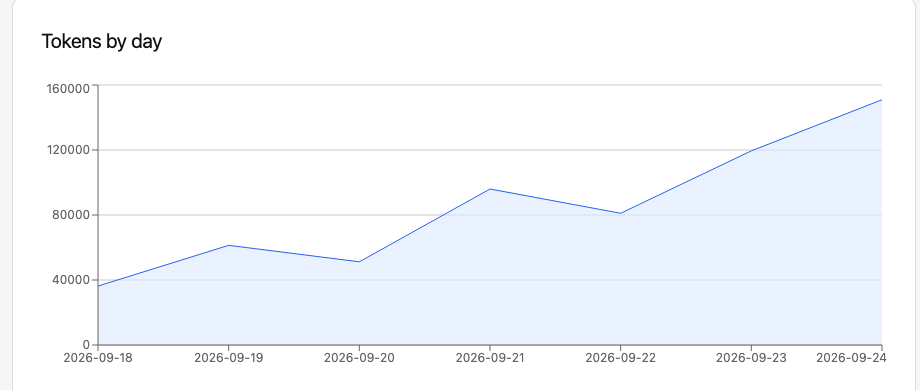
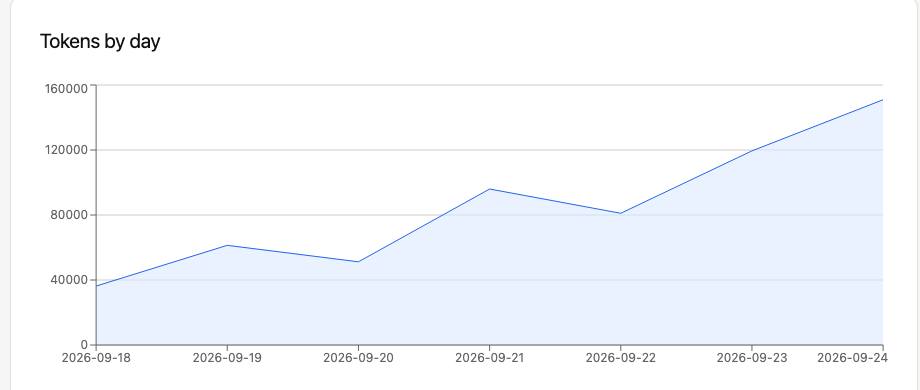
docs: expand synthetic dashboard gallery

diff --git a/docs/guides/demo.md b/docs/guides/demo.md
@@ -12,19 +12,97 @@ The demo contains three synthetic users, three mock provider connections, three 
 
 ## Screenshots
 
-Captured from the embedded dashboard on September 24, 2026, using only disposable demo data.
+Captured from the embedded dashboard using only disposable demo data. The users, providers, keys, requests, and costs in these images are synthetic.
 
-### Overview
+### Analytics
+
+#### Overview
 
 ![Overview with populated request and spend totals](../images/demo-overview.png)
 
-### Usage
+The home screen summarizes the fixture's request and spend totals.
+
+#### Usage summary
+
+![Synthetic request, token, cache, and cost summary](../images/demo-usage-summary.png)
+
+Summary cards show request and token totals alongside cache usage and example cost provenance.
+
+#### Seven-day chart
 
 ![Seven-day token chart](../images/demo-usage.png)
 
-### Model routing
+The chart shows daily token usage across the seven-day fixture.
+
+#### Effective prices
+
+![Versioned synthetic model prices](../images/demo-usage-prices.png)
+
+Versioned example prices explain the cost calculation; they are not provider quotes.
+
+#### Request history
+
+![Request history for synthetic gateway traffic](../images/demo-requests.png)
+
+The first page shows traffic generated through the real gateway paths and local mock provider.
+
+#### Request detail
+
+![Attempt, token, and cost provenance for a synthetic request](../images/demo-request-detail.png)
+
+The detail view traces an example request through its attempts, token accounting, and cost record.
+
+### Gateway configuration
+
+#### Providers
+
+![Mock provider connections](../images/demo-providers.png)
+
+Three mock provider connections let the demo run without external credentials.
+
+#### Models
 
 ![Model routing with a mock provider target](../images/demo-models.png)
+
+Published model names route to the demo's mock provider targets.
+
+#### API keys
+
+![API key creation with explicit operation scopes](../images/demo-keys.png)
+
+The creation form shows explicit operation scopes without exposing secret values.
+
+#### Key management
+
+![Synthetic API key and its lifecycle actions](../images/demo-keys-list.png)
+
+An existing demo key shows its grant counts and lifecycle actions.
+
+### Administration
+
+#### Users
+
+![Synthetic dashboard users](../images/demo-users.png)
+
+The users view contains three disposable accounts.
+
+#### Audit
+
+![Audit events in the demo dashboard](../images/demo-audit.png)
+
+Audit records make configuration changes traceable.
+
+#### Settings
+
+![Instance settings in the demo dashboard](../images/demo-settings.png)
+
+Instance settings collect local operating controls.
+
+#### Status
+
+![Runtime status in the demo dashboard](../images/demo-status.png)
+
+The status view shows instance health and diagnostics.
 
 ## Isolation and cleanup
 

diff --git a/docs/plan/README.md b/docs/plan/README.md
@@ -135,6 +135,10 @@ Checked source revision `a4ab1a2` with Go 1.27.1 on macOS arm64 and the producti
 
 The README was reduced to a Docker quick start, example request, feature summary, SDK base URLs, source build, and documentation links. The disposable demo was rebuilt and signed into locally; its overview, usage chart, and model-routing views were captured as real PNGs. `pnpm --dir web typecheck`, all 78 frontend/SDK tests, `go test ./scripts/demo -count=1`, `docker compose config --quiet`, Markdown link checks, and `git diff --check` passed. Deployment instructions were corrected for service-account creation and for passing the backup key to offline backup/restore. No GitHub workflow or paid provider was used.
 
+### Expanded demo gallery — 2026-09-24
+
+The disposable demo was rebuilt and 14 real browser screenshots now cover overview, usage totals and daily tokens, effective prices, request history and detail, providers, model routing, key creation and management, users, audit, settings, and status. The images use synthetic data only. Capturing populated requests exposed a `null` rejected-candidates array that crashed the page; new attempts now store `[]`, historical rows serialize as arrays, and a regression test covers both paths. Minor label and contrast fixes were checked in the rebuilt dashboard. The local quick verification gate passed, including Go tests, lint/static analysis, embedded and Linux builds, TypeScript, and all 78 frontend/SDK tests. Docker Compose configuration, screenshot file/link checks, and diff whitespace checks passed. Independent review found no remaining issue. No GitHub workflow or paid provider was used.
+
 Implement one bounded work item at a time in this repository. Update its status and evidence after checks pass. Review financial/security/data-loss boundaries before declaring the containing phase complete. Do not generate all future directories, tables, interfaces, or placeholder endpoints upfront.
 
 The v0.1 implementation phases are complete, with the documented Phase 8–9 compatibility subset implemented. Before publication, select the final candidate, verify its Linux artifacts and sustained resource behavior, and configure signing/reporting/publication access. The [release checklist](../project/release-checklist.md) tracks those gates; [human tasks](../project/human-tasks.md) track external prerequisites. Additional vendor API families and remote storage remain separate implementation work in the [API parity inventory](../project/api-parity-inventory.md) and decisions.

diff --git a/docs/project/release-checklist.md b/docs/project/release-checklist.md
@@ -12,7 +12,7 @@
 - [x] An encrypted backup restores into a clean Docker data volume with the matching key; the restored instance passes `/readyz` and sign-in.
 - [x] Automated suites separately cover pre-migration snapshots, encrypted restore, and failed self-update rollback.
 - [x] `./scripts/update-e2e.sh` checks real Linux CLI dry-run/apply, the production readiness probe with a public domain configured, and rollback after both stores and the master key change. Verified on Linux arm64 with disposable v1.0.0/v1.1.0 binaries and a deliberately broken signed v1.2.0 fixture; repeat on each final release architecture.
-- [x] A [disposable demo](../guides/demo.md) populates users, models, keys, priced usage, and seven days of history; reviewed overview, usage, and model-routing screenshots are included. It cannot seed an existing data directory.
+- [x] A [disposable demo](../guides/demo.md) populates users, models, keys, priced usage, and seven days of history; 14 reviewed screenshots cover analytics, requests, configuration, and administration. It cannot seed an existing data directory.
 - [x] A [repeatable Linux resource check](benchmark.md#linux-beforeafter--september-22-2026) records the artifact/environment, 50 JSON requests/second, five minutes with 50 streams, per-minute memory/goroutine ranges, management responsiveness, and post-load cleanup. The fixed run settled all 10,714 requests without errors; peak RSS was 51.82 MiB and goroutines returned to 13 after cooldown. Claims remain bounded to this workload and host.
 - [x] `llms.txt`, the [operator skill](../../skills/pocket-ai-gateway-ops/SKILL.md), deployment/backup/recovery guides, and the [API parity inventory](api-parity-inventory.md) describe the supported subset and its limits.
 - [x] No unresolved security, data-loss, quota, credential, or false-compatibility finding remains in the source candidate review.

diff --git a/README.md b/README.md
@@ -57,6 +57,10 @@ Application requests use a scoped gateway API key. Dashboard sign-in uses a sepa
 
 From a source checkout, `./scripts/demo.sh` starts a disposable instance with three mock providers and seven days of synthetic requests. It needs no provider credential and cannot seed an existing data directory. The [demo guide](docs/guides/demo.md) has login instructions and more screenshots.
 
+| Usage and cost | Request history |
+| --- | --- |
+| [![Synthetic request, token, and cost summary](docs/images/demo-usage-summary.png)](docs/guides/demo.md#analytics) | [![Synthetic gateway request history](docs/images/demo-requests.png)](docs/guides/demo.md#analytics) |
+
 ## Run one executable
 
 To build from source, install Go 1.27.1, Node.js 22 or newer, and pnpm 10.30.3, then run:
